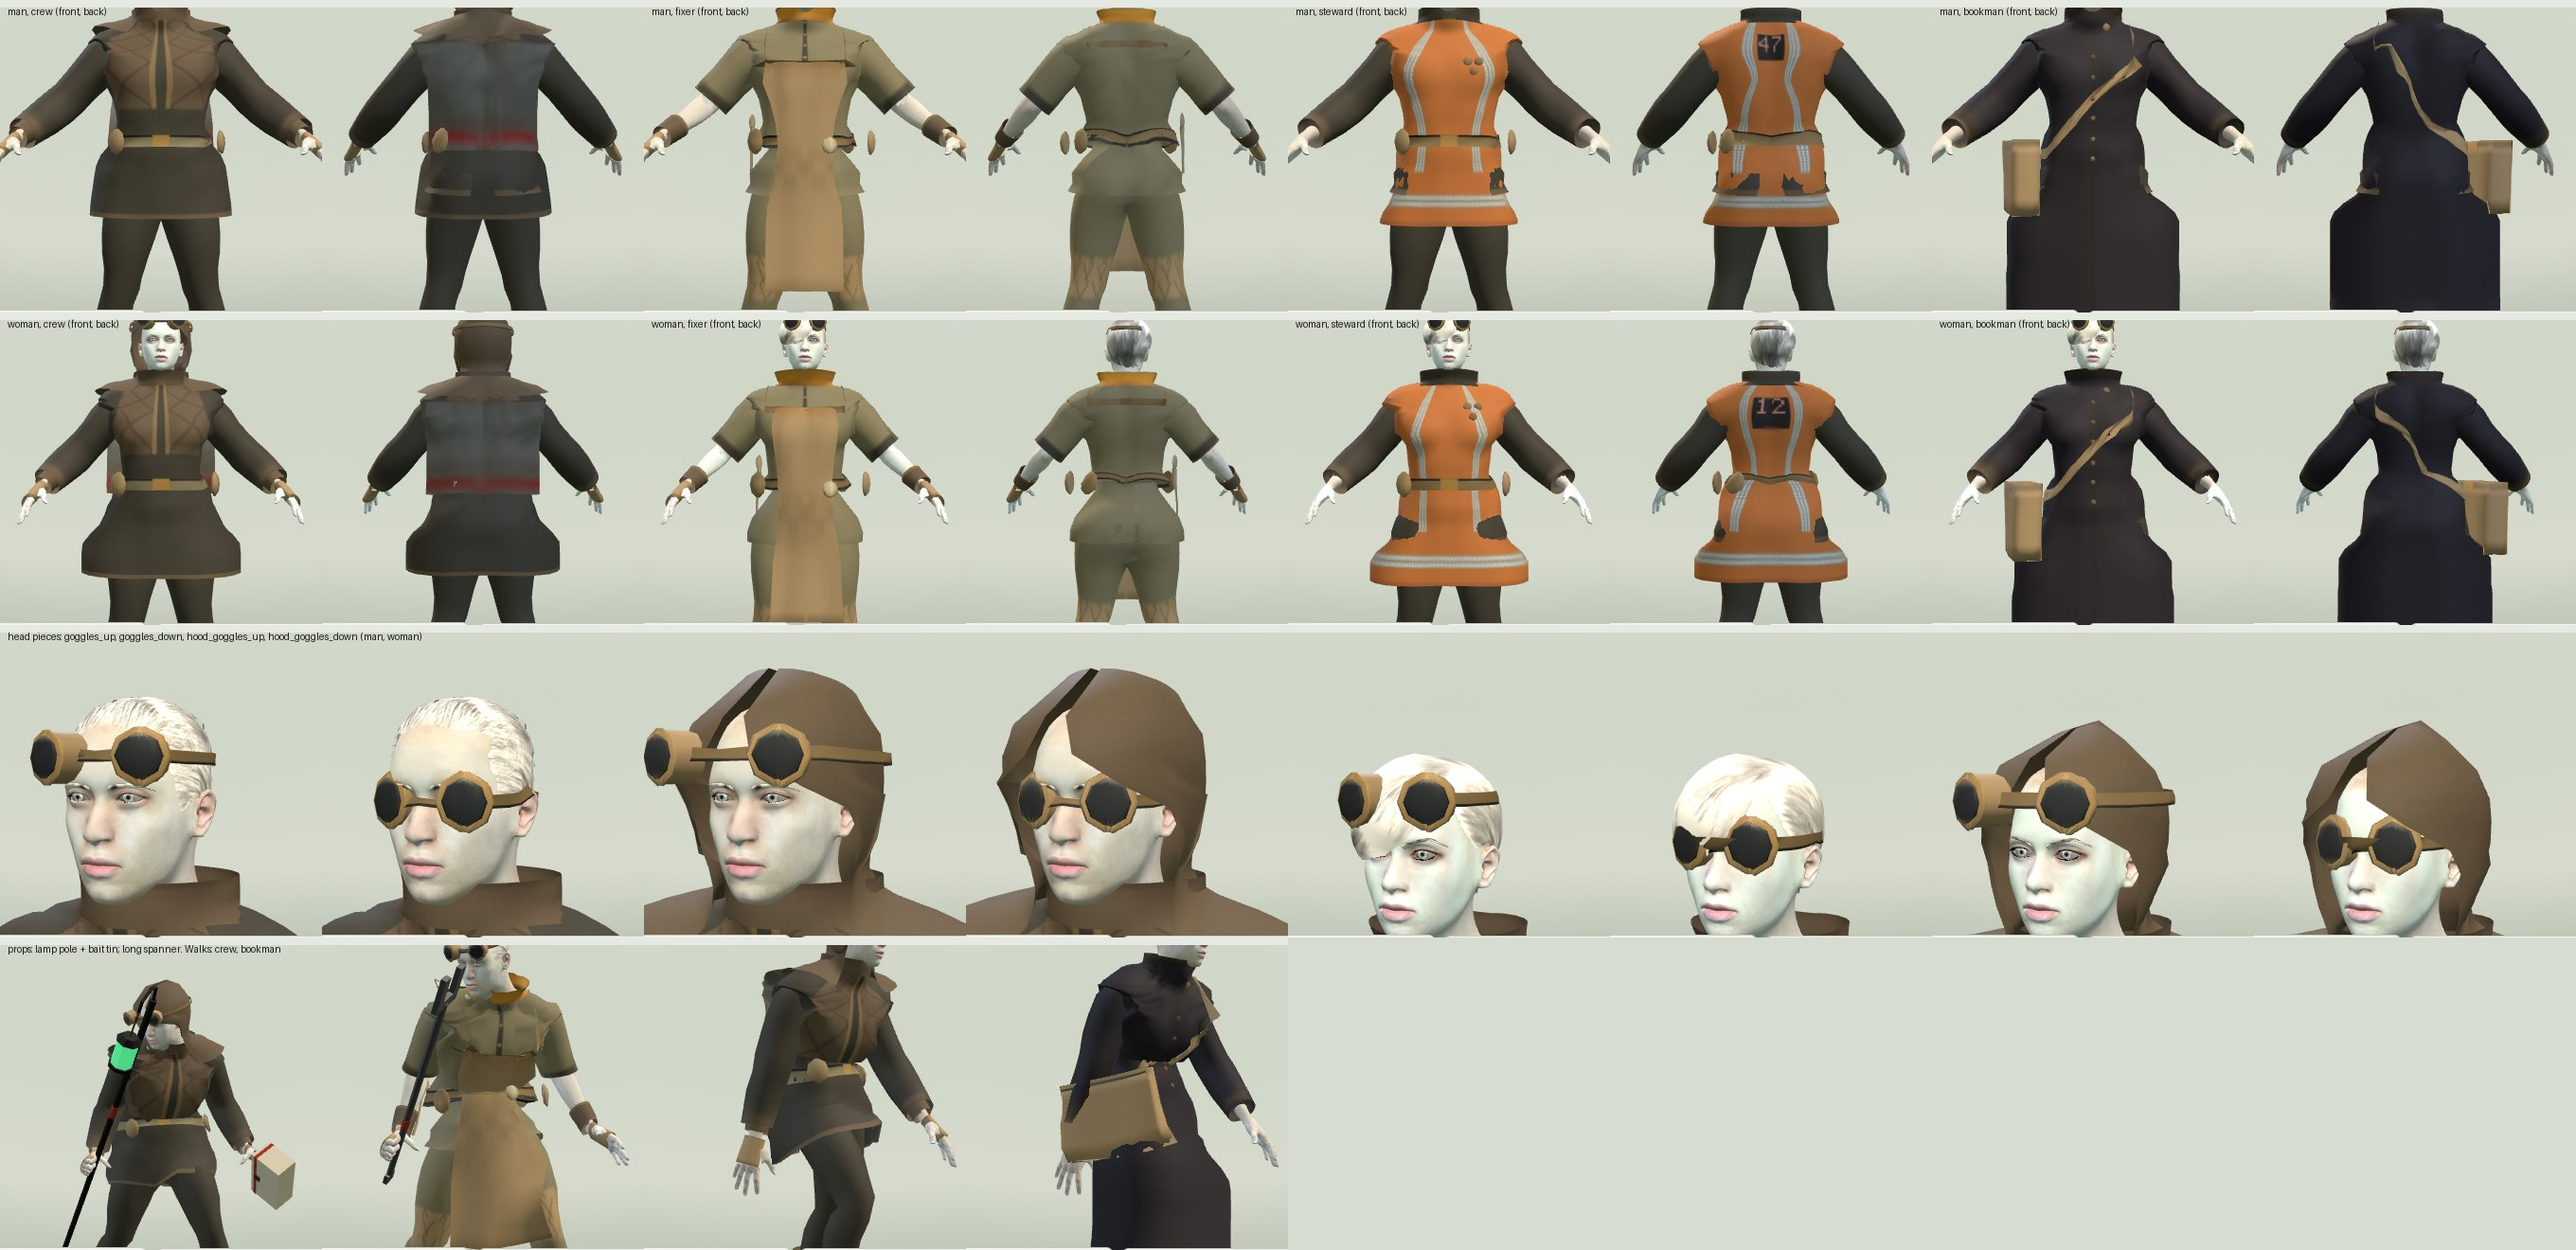
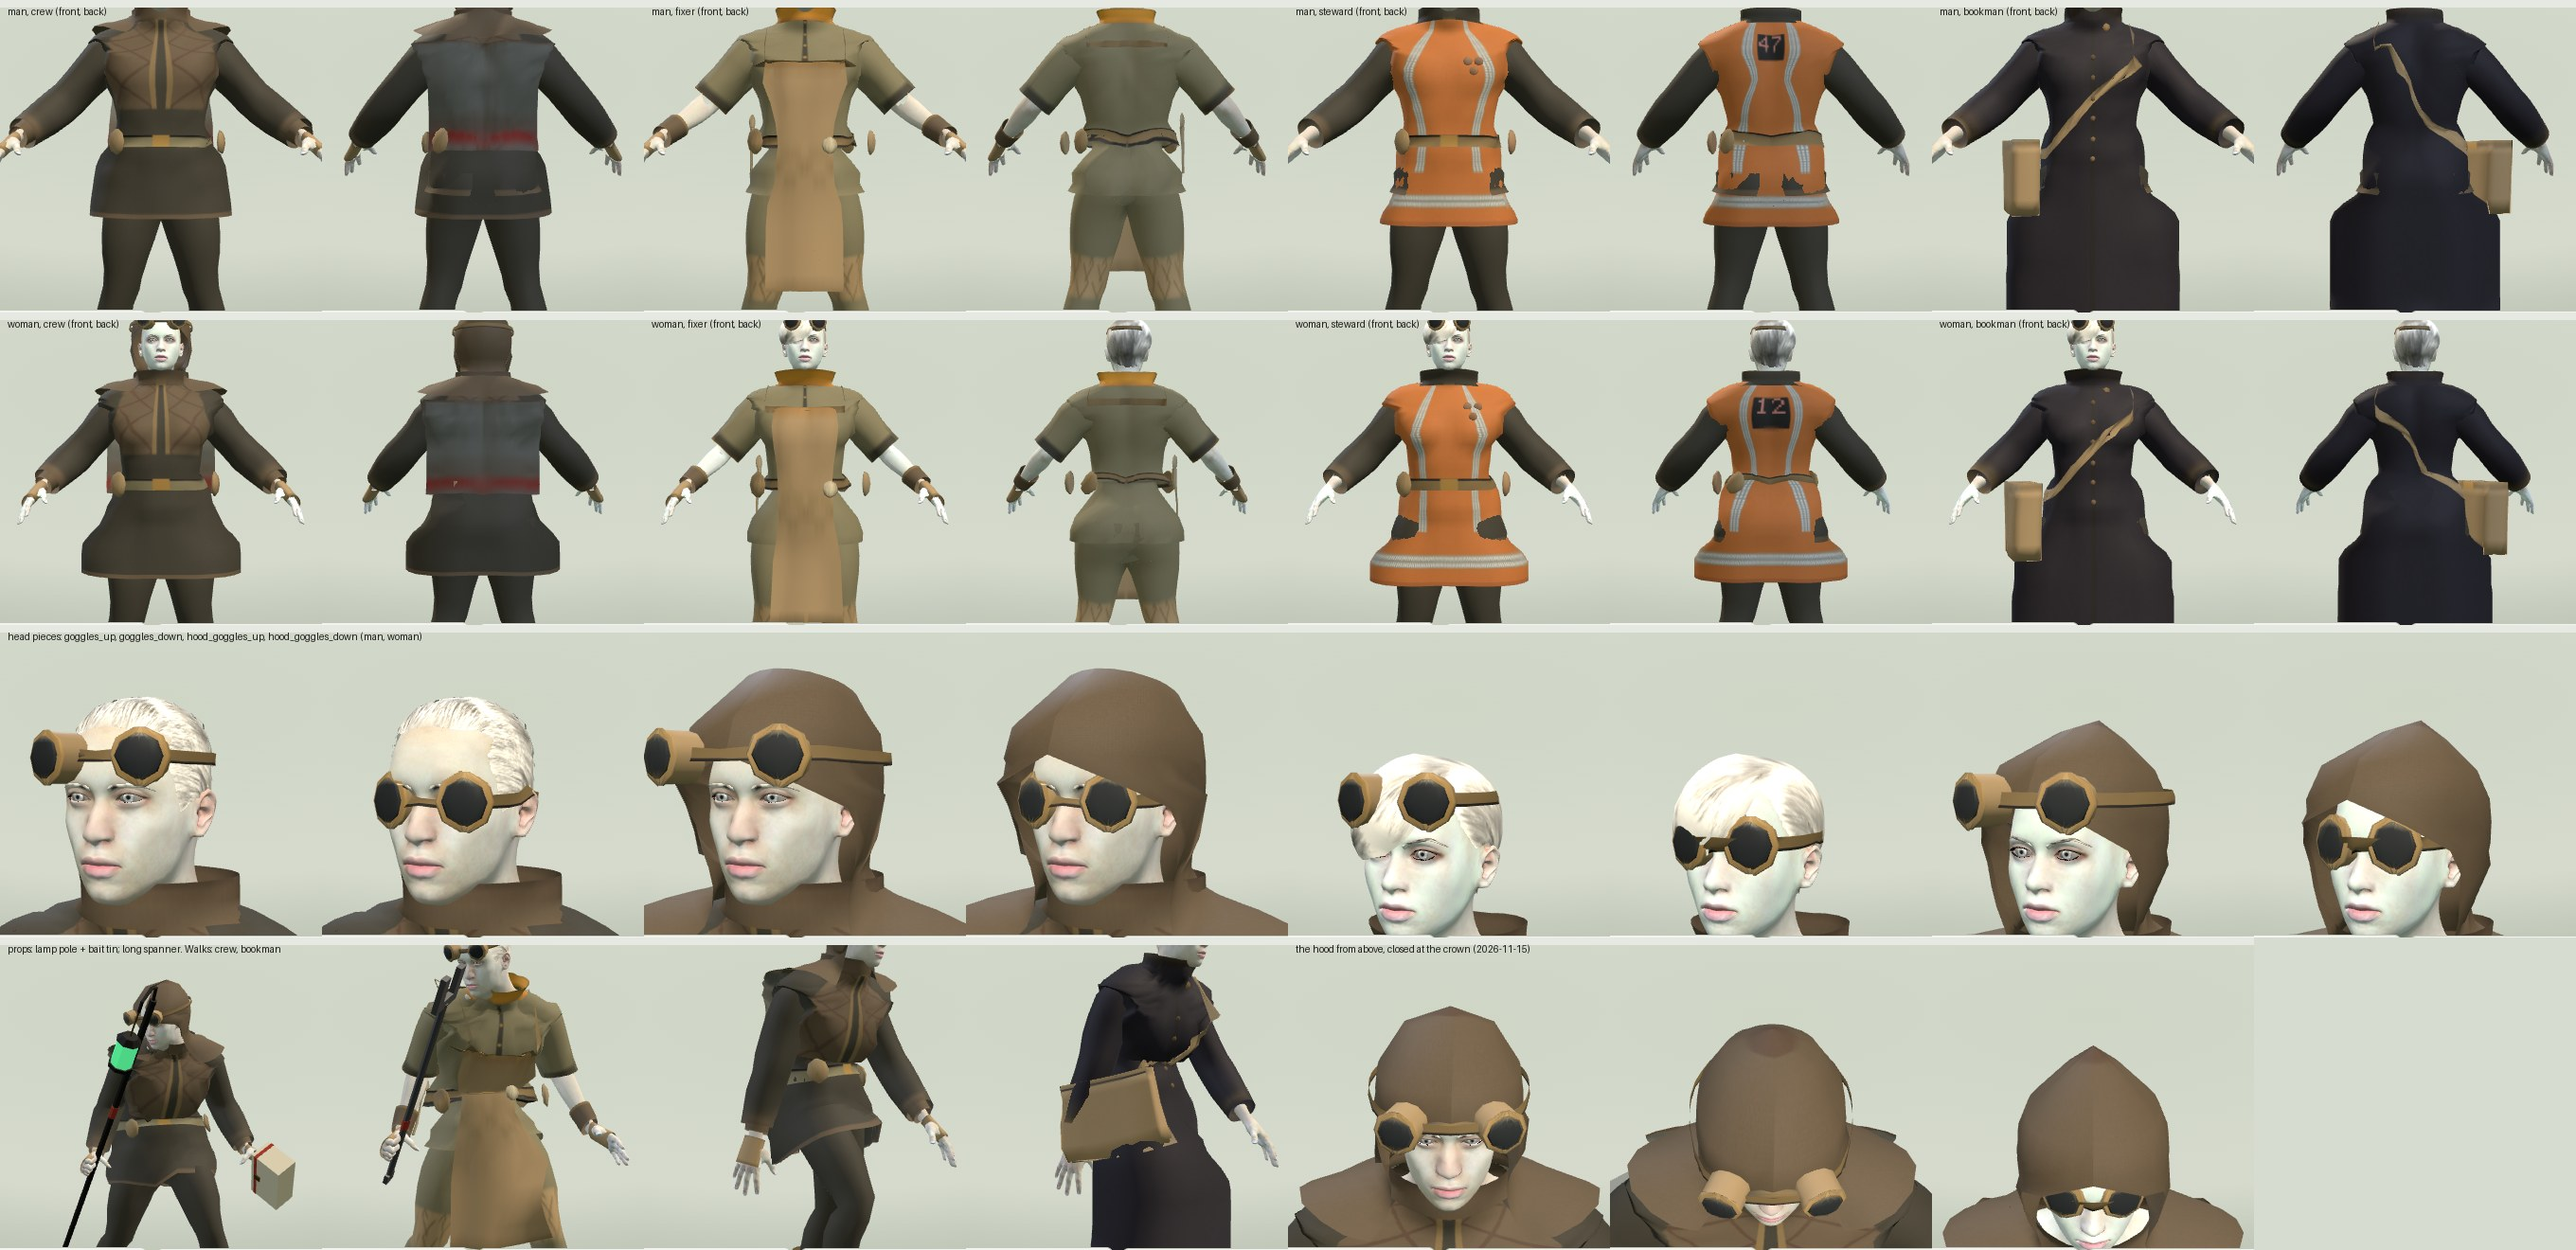
core/charactermodels: the hood closes at the crown (the type welds its edges where the face opening is shut)
types/headgear.py hood: the open grid's two edges meet at the front above the brow, and the open smoothing drew each
back to its own side, a slit of scalp to the crown. The Tungang hoods rebuilt and shot from above; the other ten
callers take it at their next build. The Cosmetic Lab verifies. The pitfall rewritten in the character-modeling skill.

diff --git a/core/charactermodels/tools/garments/types/headgear.py b/core/charactermodels/tools/garments/types/headgear.py
@@ -118,6 +118,17 @@ def hood(gid, paint, ease=0.035, ease_low=0.055, open_front=0.95, low=-0.45, row
     Q[-1] = c + (Q[-1] - c) * 0.2 + t * ease + x * peak
     Q[-2] = c + (Q[-2] - c) * 0.65 + t * ease * 0.6 + x * peak * 0.5
     Q = smooth_push(Q, False, ease, iters=2, rows_ease=eases)
+    # the crown's seam: above the face opening the grid's two edges are one line at the front, but the grid is open,
+    # so the smoothing gave each edge one lateral neighbour and drew it back to its own side: a slit of scalp from the
+    # brow to the crown (the recurring "hood open over the crown"). Where the opening is shut, the edges are welded
+    # and the two columns beside them eased back toward the weld, so the seam is a line and not a gap
+    for i in np.nonzero(opens <= 1e-6)[0]:
+        m = (Q[i, 0] + Q[i, -1]) * 0.5
+        gap = Q[i, 0] - m
+        Q[i, 0] = Q[i, -1] = m
+        for k, w in ((1, 0.5), (2, 0.2)):
+            Q[i, k] = Q[i, k] - gap * w
+            Q[i, -1 - k] = Q[i, -1 - k] + gap * w
     Q[-1] = Q[-1].mean(0)
     return Part(gid, Q, False, ['body'] * rows, paint)
 

diff --git a/.claude/skills/character-modeling/references/pitfalls.md b/.claude/skills/character-modeling/references/pitfalls.md
@@ -81,7 +81,11 @@ area you are about to change.
 - **Knees through skirts when sitting** → keep the knees inside; layered tiers for long outer sheets.
 - **Hair through hats** → hats that cover hair carry a COVERS_HAIR flag and hide the hair; tall hats clear the crown
   (height at least the highest hit on the scalp plus 1.5 cm).
-- **Hood open over the crown** → narrow the face opening above the brow.
+- **Hood open over the crown** (a slit of scalp from the brow to the crown; it kept coming back) → the hood is an
+  open grid whose two edges meet at the front above the face opening; a smoothing pass run as "open" gives each edge
+  one lateral neighbour and draws it back to its own side. Weld the two edge columns on every row where the opening
+  is shut (`tools/garments/types/headgear.py` `hood`, 2026-11-15). Narrowing the opening does not fix it. Check a
+  hood from above (`shots.py` pitch 0.45 and 0.9), not only from the front at eye level, where the slit hides.
 - **Toes through boots, a disc at the heel** → a shaft plus a capped foot tube, the heel found by ray.
 - **Sleeves ballooning** (a straight shoulder-to-hand line leaves a bent arm) → loft along an elbow path; test against
   a torso-only collision set so the A-posed arms don't catch.

diff --git a/core/charactermodels/TUNGANG-OUTFITS.md b/core/charactermodels/TUNGANG-OUTFITS.md
@@ -91,6 +91,13 @@ What the numbers are:
 
 ## Owed and known faults
 
+- **The hood's crown, fixed in the type (2026-11-15).** The hoods showed a slit of scalp from the brow to the crown
+  (the owner's catch; my shots were at eye level and missed it). `types/headgear.py` `hood` now welds its two edges
+  where the face opening is shut. The Tungang hoods are rebuilt and shut (the sheet's last row). **The ten other
+  hoods and cowls built on `hood` are not rebuilt here** (`build_batch2_outfits.py` four, `build_geomancers.py`
+  three, `build_inspired_outfits.py`, `build_pc_outfits.py`, `build_yuni_military.py`, `historians.py`): they take the
+  fix when their cultures are next built, and should be looked at from above then.
+
 - **Not judged by eye by the owner.** The shot sheet is for that.
 - **A fringe covers the bare-headed goggles.** On the woman's `short03` the hair lies over one cup of `goggles_up`
   and `goggles_down` (the sheet's third row, right). The goggles do not hide hair (`covers_hair` would take all of
